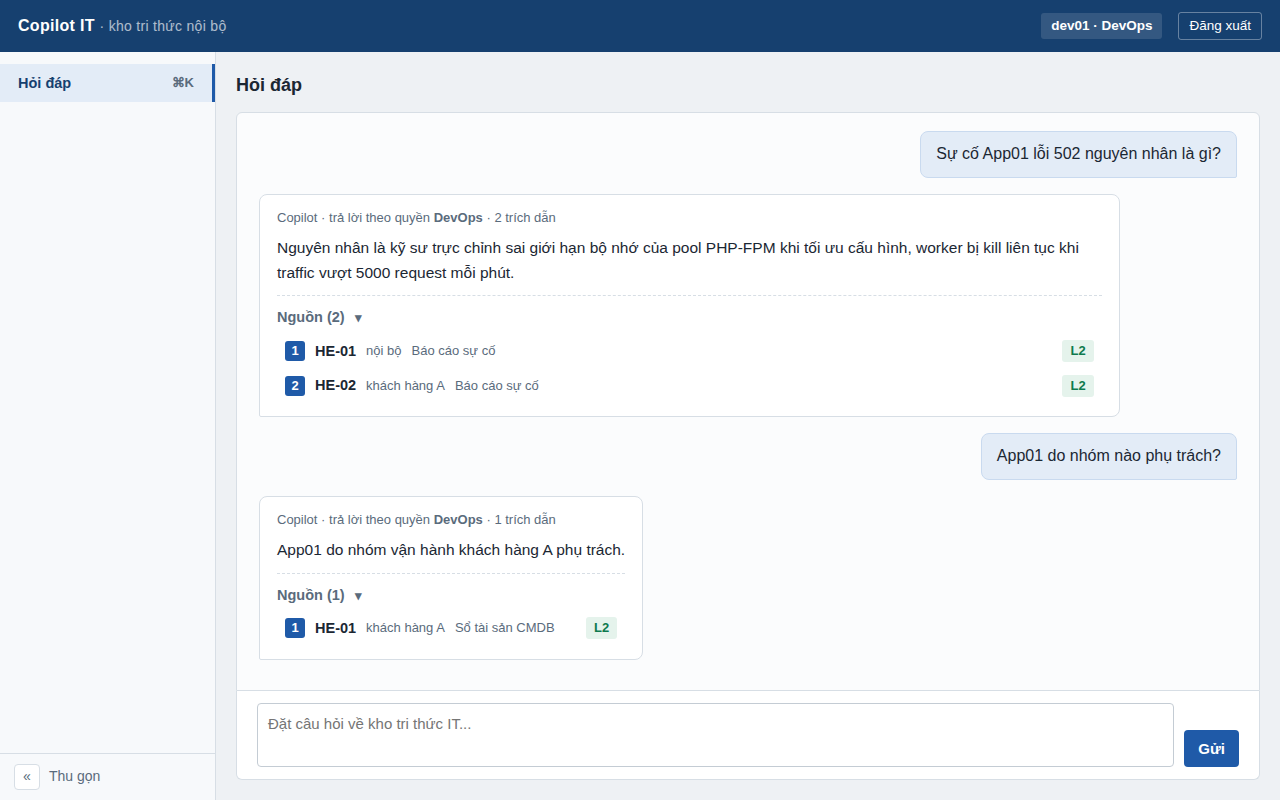
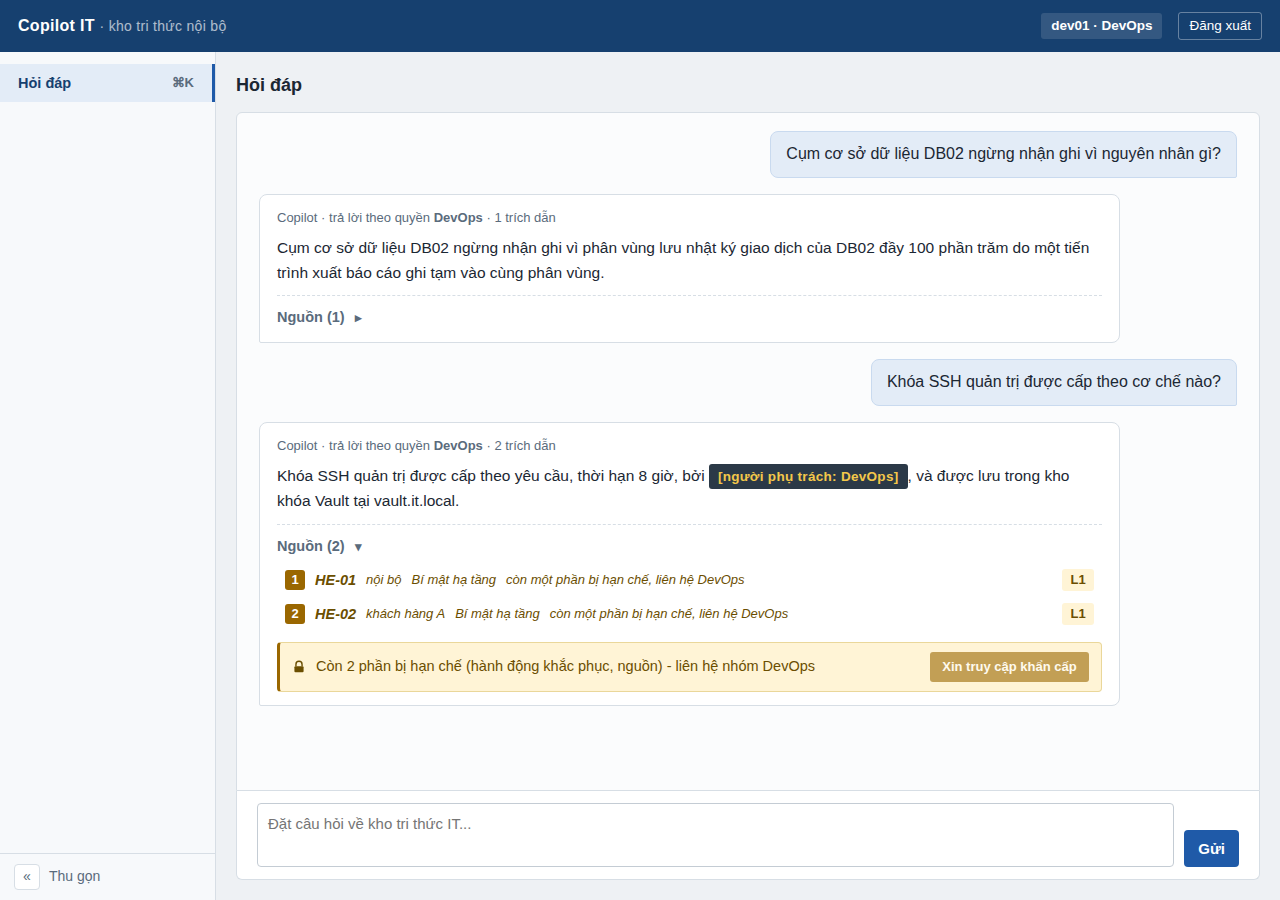
Tự động ba phép kiểm tay của 4.4, và viết lại checklist bằng câu hỏi tra từ ảnh đồ thị
`web/e2e/kiem-tay.mjs` chạy chromium thật trên máy chủ, in envelope từng lượt
cạnh thứ hiện trên màn rồi chấm ba thứ trước đó phải mở DevTools ra làm: envelope
khớp màn, dòng hạn chế tính lại độc lập rồi so từng ký tự, và không cuộn ngang
cộng khối nguồn ngoài vùng aria-live. Bảng nhãn đọc thẳng từ `web/src/nhan.ts`
chứ không chép lại - một bản chép ở đó sẽ báo xanh cho đúng cái nó chép sai.
Tốn tiền LLM thật nên nó ngoài `npm run test:e2e` và ngoài hook CI.

Đo 08/09: `ts01` 32 PASS 0 FAIL, `dev01` 38 PASS 0 FAIL.

Checklist viết lại vì bản đầu soạn câu hỏi từ tưởng tượng thay vì tra
`eval/anh_do_thi/synth.json` vốn liệt kê nguyên văn từng giá trị slot. Hai câu
hỏi cũ hỏi nội dung không có trong corpus nên rơi vào từ chối, và mục D1 ghi sai
kỳ vọng: đáp án của câu n5-05 nằm ở `condition`, mà `condition` không phải vai
bị che của `bi_mat_ha_tang`, nên `dev01` phải nhận câu trả lời đầy đủ chứ không
có slab. Câu hỏi mới đều đã chạy thật và ghi kèm kết quả đo.

Hai bẫy ghi lại để đừng dính lại: `masked_slots` là giao của bảng chính sách với
vai thực có trên hyperedge, không phải cả bảng; và cùng một nội dung thường nằm
ở nhiều loại tài liệu nên truy hồi có thể lấy loại L2 thay vì loại L1 định thử.

Một khoản sổ nợ mới, địa chỉ 4-7: câu trả lời ghép `time` không bị che của một
hyperedge scope khác với phần đã che của hyperedge này thành một câu gần bằng
phần vừa bị che, trong khi dòng hạn chế ngay dưới khẳng định phần ấy bị hạn chế.
[…]

diff --git a/_bmad-output/implementation-artifacts/deferred-work.md b/_bmad-output/implementation-artifacts/deferred-work.md
@@ -1461,3 +1461,6 @@ Không sửa hai ADR (cả hai đã đúng) và không sửa `AGENTS.md` (nó đ
 - source_spec: `_bmad-output/implementation-artifacts/spec-4-4-cite-row-slab-boi-den-va-dong-han-che-l1.md`
   summary: Hai họ dấu che không phải vai slot, `[description:l2_only]` và `[neighbor_id:no_key]`, đi ra `answer` dưới dạng chuỗi tiếng Anh trần giữa một câu tiếng Việt, vì slab của 4.4 cố ý chỉ phủ ba họ của vai slot.
   evidence: Vòng review 4.4 (verification gap). `core/masking.py` sinh **bốn** họ dấu che: `[<vai>:masked]` cho 7 vai (`:270-282`), `[owner:group]` và `[owner:<nhóm>]` (`:241-267`), `[description:l2_only]` (`MASK_REASON_L2_ONLY`, `:165`) và `[neighbor_id:no_key]` (`MASK_REASON_NO_KEY`, `:178`, dựng ở `:285-293`). Cả bốn đều nằm trong `_VI_DU_DAU_CHE` của `adapters/tra_loi.py:322-328`, tức prompt sinh câu trả lời **dạy model chép nguyên cả bốn** vào `answer` (luật của ADR-016, "chép nguyên dấu che vào đúng chỗ"), nên hai họ sau tới được màn hình thật chứ không chỉ trên lý thuyết. `web/src/app/dau_che.ts::cac_dau_che` dựng ba họ và `tach_slab` để mọi chuỗi khác nguyên văn, nên một câu trả lời mang `[neighbor_id:no_key]` hiện đúng chuỗi đó giữa câu - chính thứ mà Intent của story 4.4 nói nó tồn tại để dọn. Không sửa ở 4.4 vì khối `Always` **đã đóng băng** của spec chốt đúng ba họ và câu "Mọi chuỗi ngoặc vuông khác là chữ thường", nên đổi hành vi ở đây là sửa intent mà con người sở hữu. Còn một lý do thật thứ hai: hai họ ấy **không phải vai slot**, nên chúng không có nhãn trong `NHAN_SLOT` và cũng không có hàng nào trong bảng Voice and Tone; chọn chữ cho chúng (`[mô tả: che]`? `[lân cận: che]`? hay bỏ hẳn khỏi câu?) là một quyết định về câu chữ của nguồn chuẩn UX chứ không phải một phép sửa mã. Story 4.4 đã đóng nửa kiểm được của khoản này: test nhóm (11) dựng tập bốn họ từ chính `core.masking` rồi **nêu đích danh hai họ bị loại**, nên `core/` mọc thêm một `MASK_REASON_*` thứ năm là đỏ chứ không âm thầm. Việc còn lại: đo xem hai chuỗi ấy có thật sự xuất hiện trong `answer` của bài demo không, rồi quyết một trong ba đường - thêm nhãn vào EXPERIENCE.md cộng microcopy rồi bôi đen chúng, bỏ chúng khỏi câu, hay nhận chúng như chữ thường và nói ra trong chương 4. Địa chỉ: **story 4-7** (đường demo ba nhịp đầu chạy thật), nơi bài demo chạy nhiều lần và ghi tần suất, tức chỗ duy nhất đo được câu hỏi "có xuất hiện không" trước khi nó xuất hiện trước hội đồng; mốc là trước khi đóng băng bài demo.
+- source_spec: `_bmad-output/implementation-artifacts/spec-4-4-cite-row-slab-boi-den-va-dong-han-che-l1.md`
+  summary: Câu trả lời ghép hai mảnh hợp lệ từ hai scope thành một câu gần bằng phần vừa bị che, trong khi dòng hạn chế ngay dưới nó khẳng định phần ấy bị hạn chế.
+  evidence: Đo trên máy chủ 08/09/2026 bằng `web/e2e/kiem-tay.mjs` với `dev01`, câu "Khóa SSH quản trị được cấp theo cơ chế nào?". Envelope trả hai citation L1 `bi_mat_ha_tang`: một của scope `noi_bo` che `[remediation, owner]`, một của `khach_hang_a` che `[source, owner]`; dòng hạn chế hiện đúng `Còn 2 phần bị hạn chế (hành động khắc phục, nguồn) - liên hệ nhóm DevOps`. Nhưng `answer` viết "được cấp **theo yêu cầu, thời hạn 8 giờ**", trong khi `remediation` bị che của hyperedge `noi_bo` là "cấp theo yêu cầu có thời hạn 8 giờ" (`eval/anh_do_thi/synth.json`). Đường đi tra được: `dev01` có cả hai scope, và hyperedge `khach_hang_a:bi_mat_ha_tang` cùng chủ đề mang `time` = "thời hạn 8 giờ" ở một vai **không** bị che. **Tầng quyền làm đúng từng bước** - che `remediation` của hyperedge này, cho `time` của hyperedge kia đi qua, cả hai theo đúng `config/policy-day-du.yaml` - còn LLM ghép hai mảnh hợp lệ thành một câu gần bằng phần đã che. Đây đúng là **Composition-Risk** mà `docs/adr/ADR-012` định nghĩa, lần đầu nhìn thấy trên bề mặt câu trả lời thay vì trong một phép đếm; tỷ lệ đếm được vẫn 0% vì định nghĩa đòi **mọi** entity cấu thành còn lộ, còn ở đây chỉ một mảnh lộ. Không sửa ở 4.4 vì `web/` chỉ hiển thị `answer` và không được sửa `api/`; và vì chốt brief §6 chốt rằng phép assert an ninh đứng trên **ngữ cảnh truy hồi** chứ không trên câu trả lời LLM, nên đây không phải một test đỏ mà là một phát biểu phải nói ra. Cùng lượt còn đo được LLM không tất định: hai lần chạy cùng câu cho hai câu trả lời khác nhau, một lần đặt dấu che nhầm vào vế `condition` là vế được phép hiện. Ba đường ra để sonlm chọn: nhận và viết thẳng vào chương 4 như một giới hạn đã đo (rẻ nhất, và nó làm mạnh thêm lập luận rằng Composition-Risk bằng 0 là tính chất của định nghĩa đếm); thu hẹp ngữ cảnh của đường phục vụ theo scope; hay thêm một câu luật vào `PROMPT_TRA_LOI` cấm ghép vế đã che từ dòng khác. Địa chỉ: **story 4-7** (đường demo ba nhịp đầu chạy thật), nơi nhịp 2 chạy đúng màn này nhiều lần trước một khán giả và là chỗ đo được tần suất; mốc là trước khi đóng băng bài demo.
